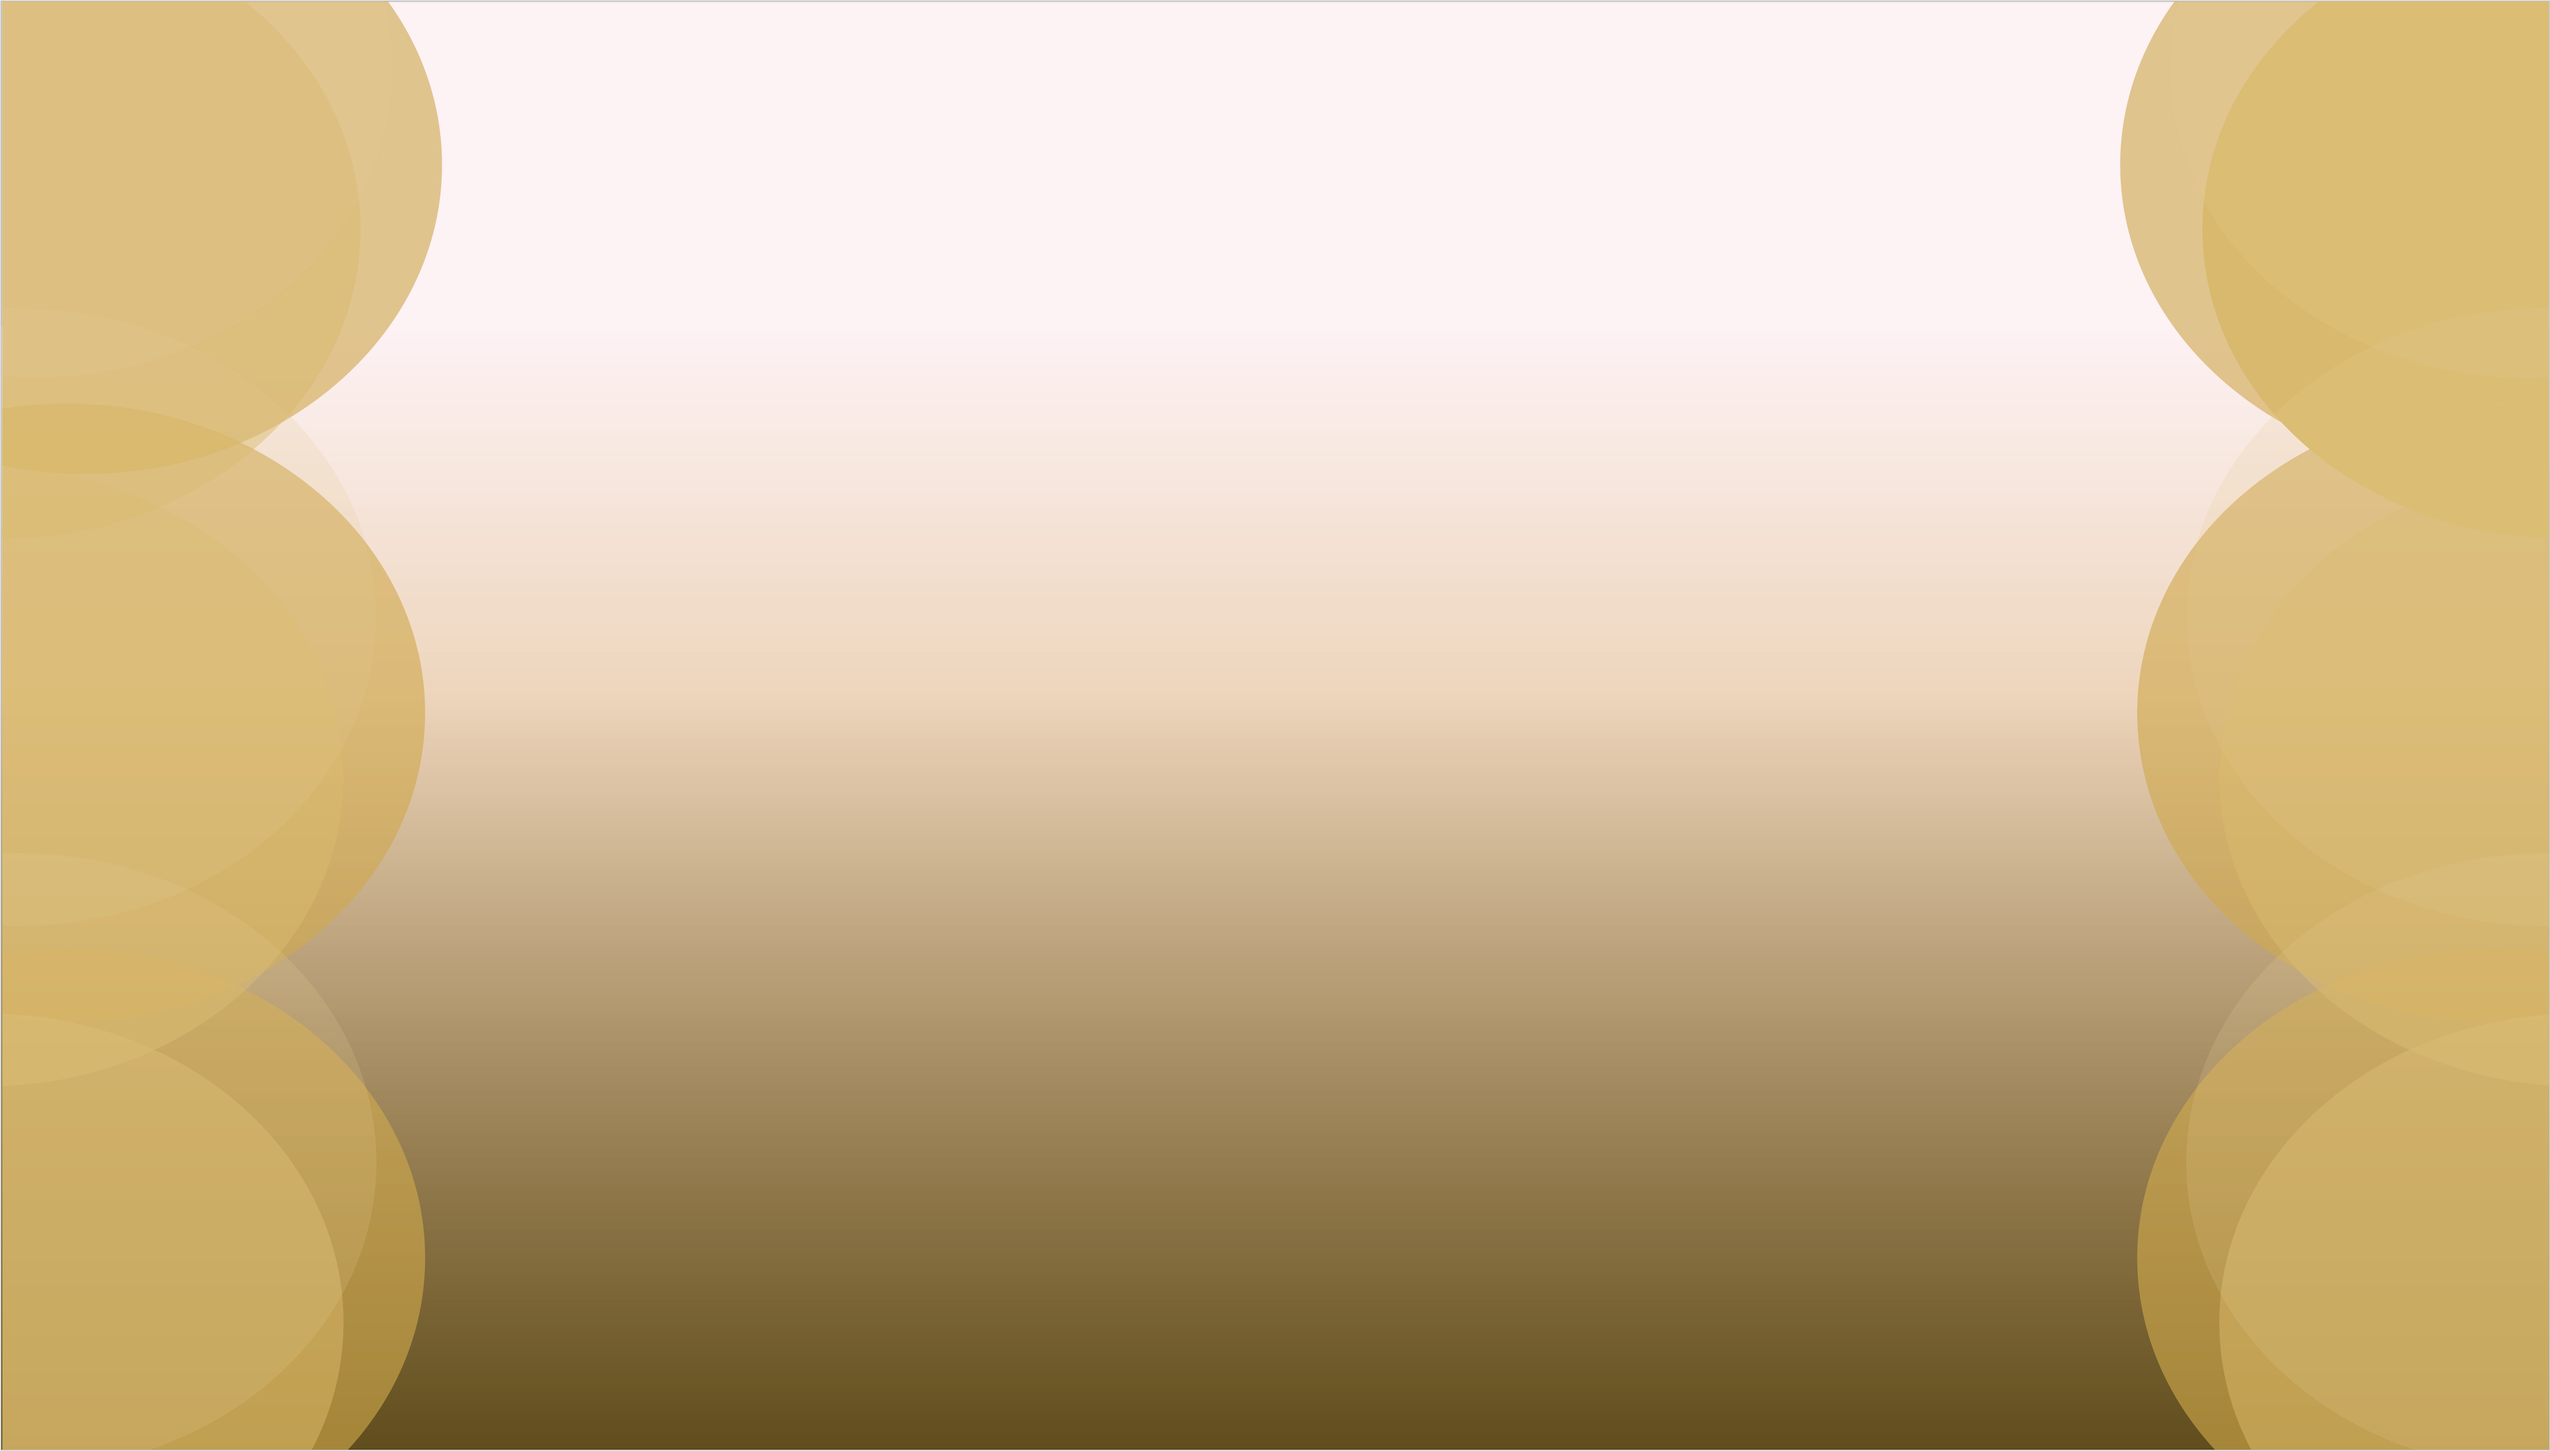
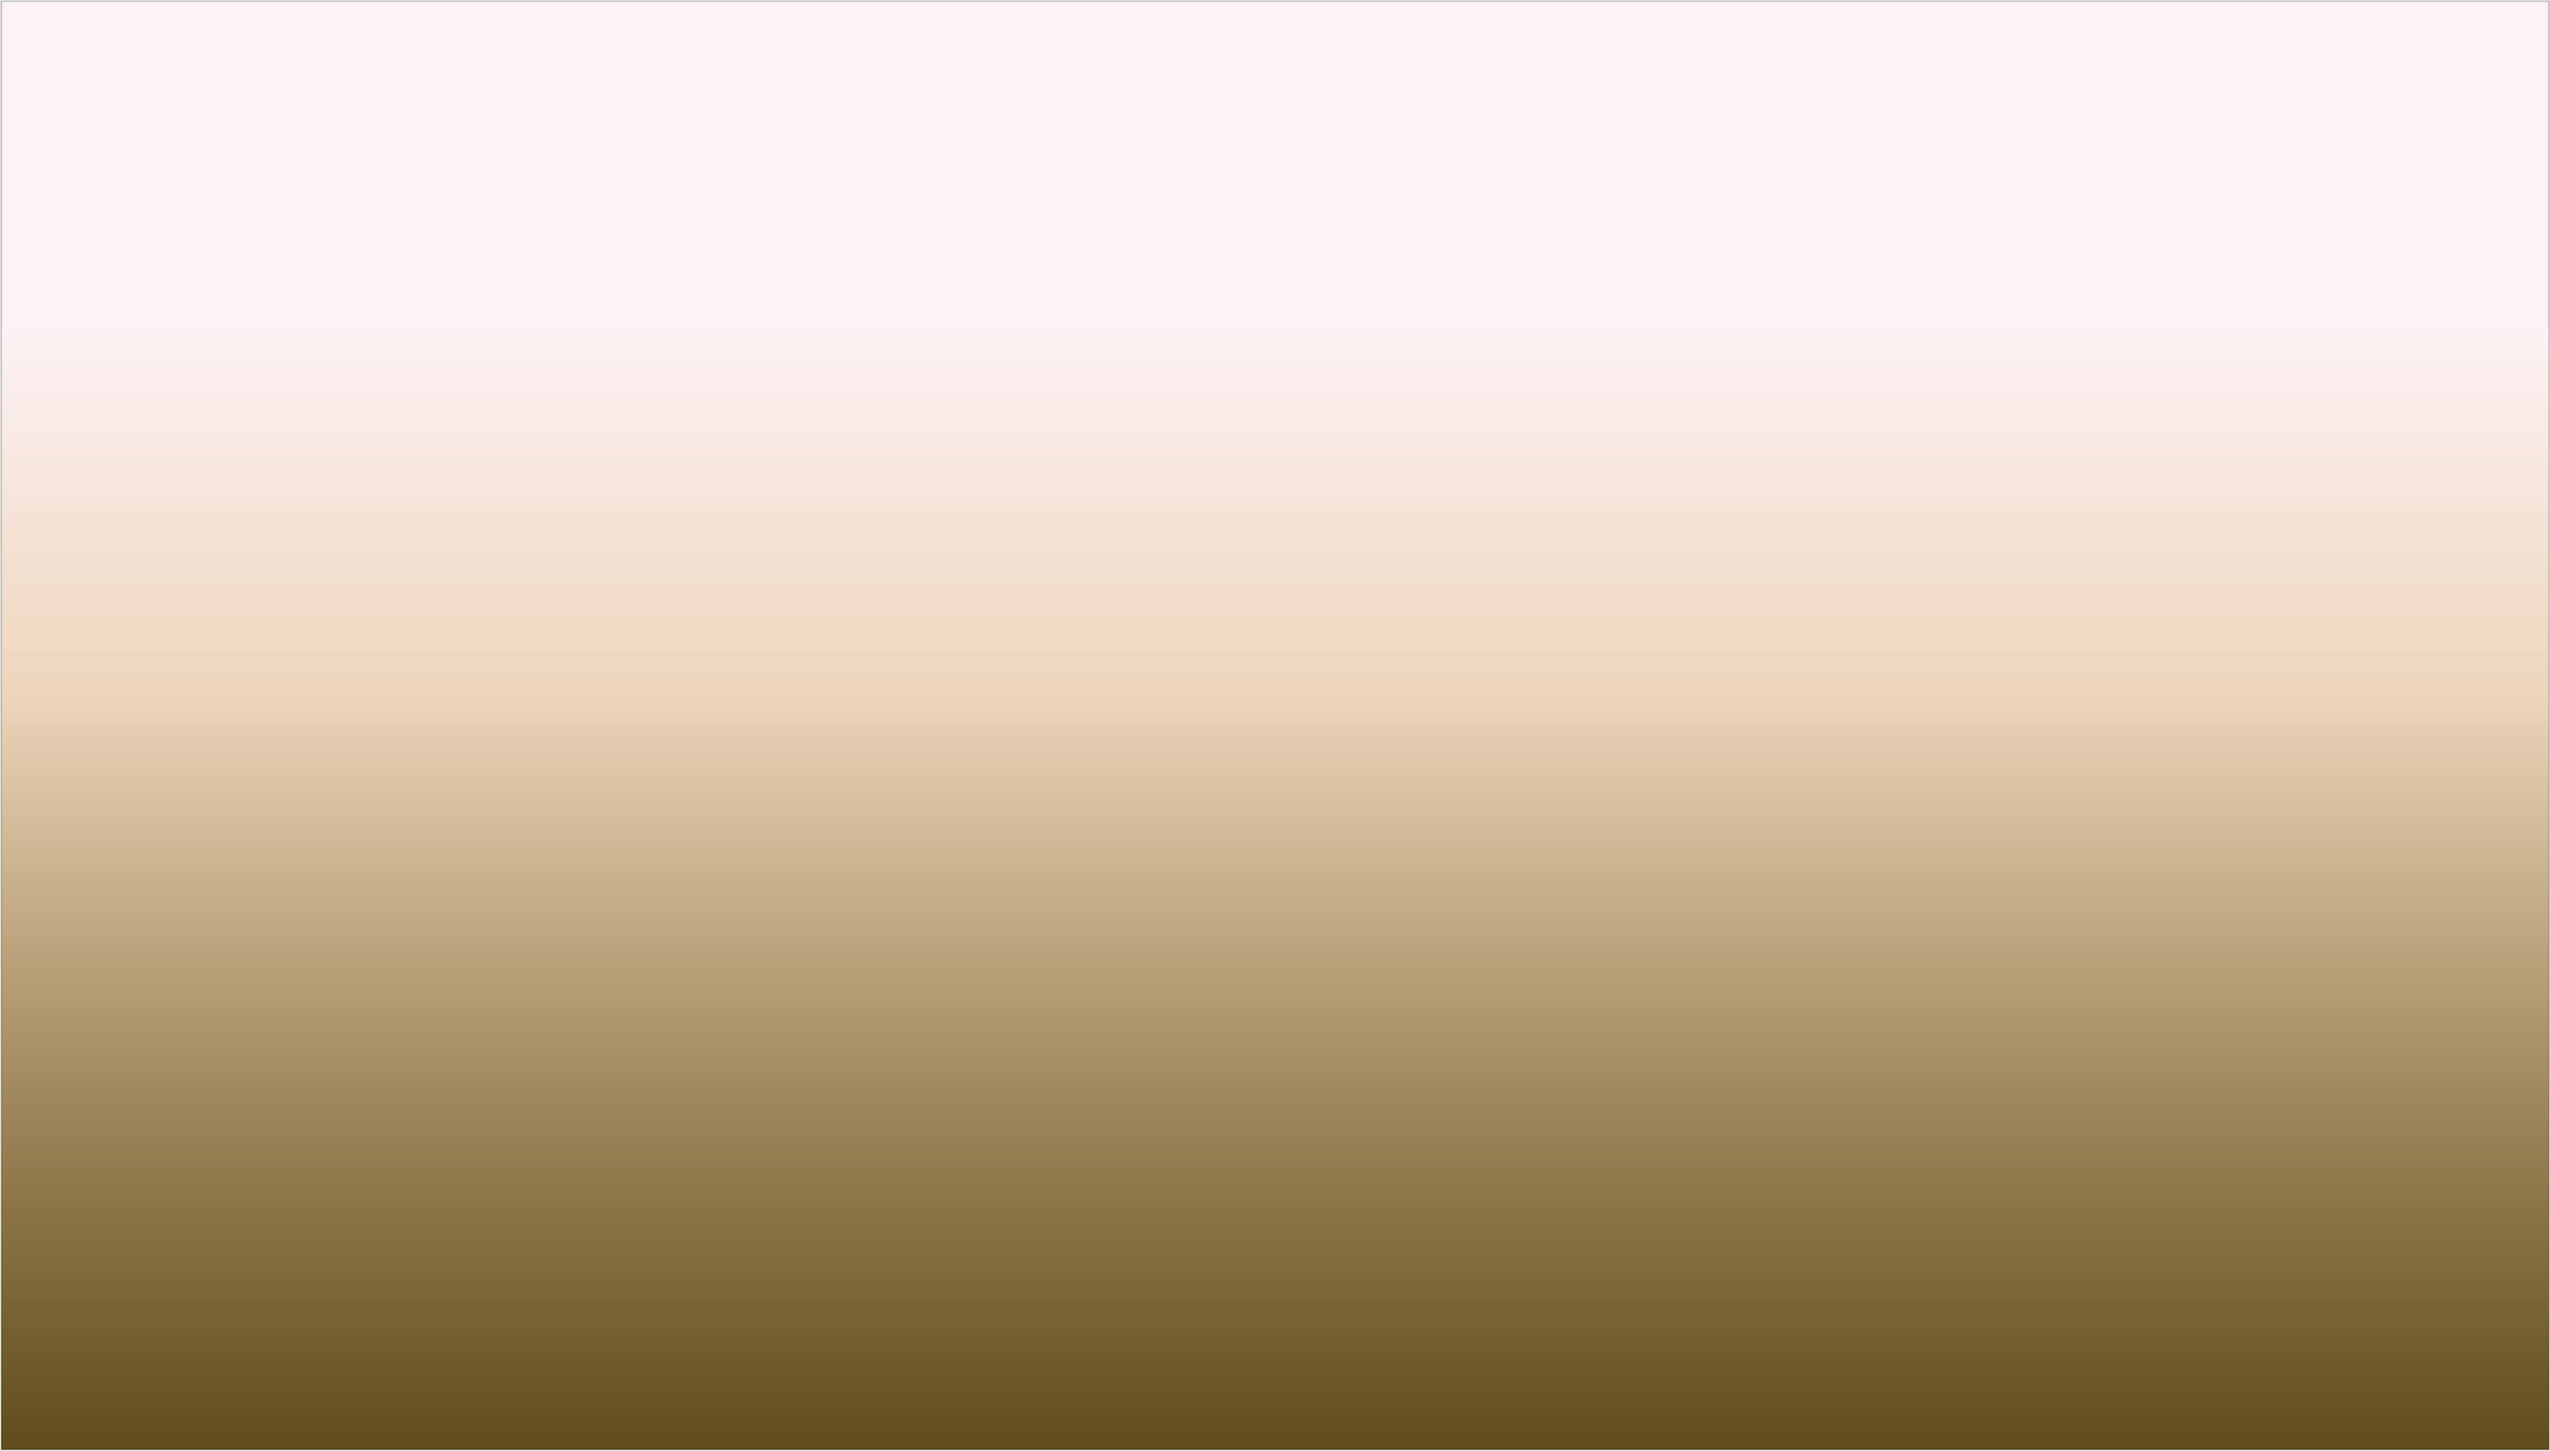
actualización de fondo para servicios y aviso de privacidad

Changed region(s): [[0.8088, 0.0, 1.0, 1.0], [0.0, 0.0, 0.1866, 1.0]]

diff --git a/resources/views/solicitudes/tipoIndustria.blade.php b/resources/views/solicitudes/tipoIndustria.blade.php
@@ -269,6 +269,12 @@
         border-radius: 4px;
         transition: color .15s ease-in-out, background-color .15s ease-in-out, border-color .15s ease-in-out, box-shadow .15s ease-in-out;
     }
+    p{
+        text-align: justify;
+    }
+    li{
+        text-align: justify;
+    }
     
 </style>
 
@@ -286,33 +292,24 @@
         <div class="modal-content">
             <div class="modal-header header-default font-size-14" style="height: 38px">
                 <div class="col-md-12">
-                    <center><h4>PROCEDIMIENTO DE CONCILIACIÓN INDIVIDUAL</h4></center>
+                    <center><h4>DATOS PERSONALES</h4></center>
                 </div>
             </div>
             <div class="modal-body">
                 <div class="col-md-12 gray-small-text">
-                    <p>El Centro de Conciliación Laboral del Estado de Nuevo León hace de tu conocimiento que los datos personales aquí recabados son tratados conforme a lo dispuesto por 
-                        la Ley General de Protección de Datos Personales en Posesión de Sujetos Obligados y la demás normatividad que resulte aplicable, para realizar el procedimiento de 
-                        conciliación individual.</p>
-                    <p>Los datos personales que sean recabados serán utilizados para las siguientes finalidades:</p>
+                    <p>Los Datos Personales recabados por el Centro de Conciliación Laboral del Estado de Michoacán de Ocampo, servirán únicamente para realizar el Procedimiento de Conciliación Individual Prejudicial, 
+                        serán tratados conforme lo dispuesto por la Ley General de Protección de Datos Personales en Posesión de Sujetos Obligados y demás normativa aplicable.</p>
+                    <p>Los datos considerados sensibles no serán recabados, ni tratados, ni se realizaran transferencias de datos personales, salvo aquellos que no requieran el consentimiento de los titulares y que 
+                        sean necesarios para atender su solicitud o requerimientos de información realizados por autoridad competente, siempre y cuando se encuentren debidamente fundados y motivados; lo anterior, de 
+                        conformidad con los artículos 22, 66 y 70 de la Ley General de Protección de Datos Personales en Posesión de Sujetos Obligados.</p>
+                    <p>Los datos personales que sean recabados serán empleados con los fines siguientes:</p>
                     <ul>
-                        <li>Con la finalidad de registrar al usuario en la plataforma digital denominada SINACOL (Sistema Nacional de Conciliación Laboral), dar seguimiento y trámite a su solicitud.</li>
-                        <li>Para administrar la información y datos del solicitante para efectuar el procedimiento de conciliación prejudicial obligatorio y las notificaciones que deriven del mismo.</li>
-                        <li>Para generar información estadística y de control, en la que sus datos personales serán disociados de la información estadística para que no sea posible identificar a los titulares.</li>
-                        <li>Establecer comunicación con los trabajadores y patrones por correo electrónico, por escrito, mediante mensajería, correo ordinario o por teléfono, sobre aspectos relaciones con las fases y etapas del procedimiento de conciliación individual.</li>
+                        <li>Registrar al usuario en la plataforma digital denominada SICONCILIO (Sistema Integral para la Conciliación), dar seguimiento y trámite a su solicitud.</li><br>
+                        <li>Administrar la información y datos del solicitante para efectuar el Procedimiento de Conciliación Prejudicial obligatorio y las notificaciones que deriven del mismo.</li><br>
+                        <li>Generar información estadística y de control, en la que sus datos personales serán disociados de la información estadística para que no sea posible identificar a los titulares.</li><br>
+                        <li>Establecer comunicación con los trabajadores y patrones por correo electrónico, por escrito, mediante correo ordinario o por teléfono, sobre aspectos relacionados con las 
+                            fases y etapas del procedimiento de conciliación individual.</li>
                     </ul>
-                    <p></p>
-                    <p>Se le informa que no se recabarán ni tratarán datos personales que se consideren sensibles. Cabe destacar que no se realizarán transferencias de datos personales, salvo aquéllas que no 
-                        requieran el consentimiento de los titulares y que sean necesarias para atender su solicitud o requerimientos de información de una autoridad competente, que estén debidamente fundados 
-                        y motivados; esto con base en los artículos 22, 66 y 70 de la Ley General de Protección de Datos Personales en Posesión de Sujetos Obligados.</p>
-
-                    <p>Así mismo se le informa que puede manifestar la negativa al tratamiento de sus datos personales para las finalidades o transferencias que no sean necesarias, mediante comparecencia ante 
-                        la Unidad de Transparencia o a través de una solicitud por escrito debidamente firmada y enviada al correo electrónico de transparencia@centrodeconciliacionlaboralnl.mx o presentada ante 
-                        nuestras instalaciones.</p>
-                    <p>
-                        Cambios en el aviso de privacidad:
-                        En caso de que existan cambios en el aviso de privacidad, lo haremos de su conocimiento a través de la página www.centrodeconciliacionlaboralnl.mx/aviso-de-privacidad/o bien, de manera 
-                        presencial en nuestras instalaciones.</p>
                 </div>
                 <div class="col-md-12 row">
                     <div class="col-md-12">

diff --git a/resources/views/welcome.blade.php b/resources/views/welcome.blade.php
@@ -268,12 +268,12 @@
           <div class="flip-box">
             <div class="flip-box-inner">
               <div class="flip-box-front">
-                <h2 style="font-size: 22px; font-family: Arial; color:#000000">Buzón tributario</h2>
+                <h2 style="font-size: 22px; font-family: Arial; color:#000000">Buzón electrónico</h2>
                 <img src="public/assets/images/Audiencias e.png" alt="Descripción de la imagen"
                     style="width: 120px; height: 120px; position: absolute; top: 60%; left: 50%; transform: translate(-50%, -50%);">
               </div>
               <div class="flip-box-back">
-                 <h2 style="font-size: 21px; font-family: Arial; color:#ffff"><br><br>Buzón tributario.</h2>
+                 <h2 style="font-size: 21px; font-family: Arial; color:#ffff"><br><br>Buzón electrónico.</h2>
               </div>
             </div>
           </div>
